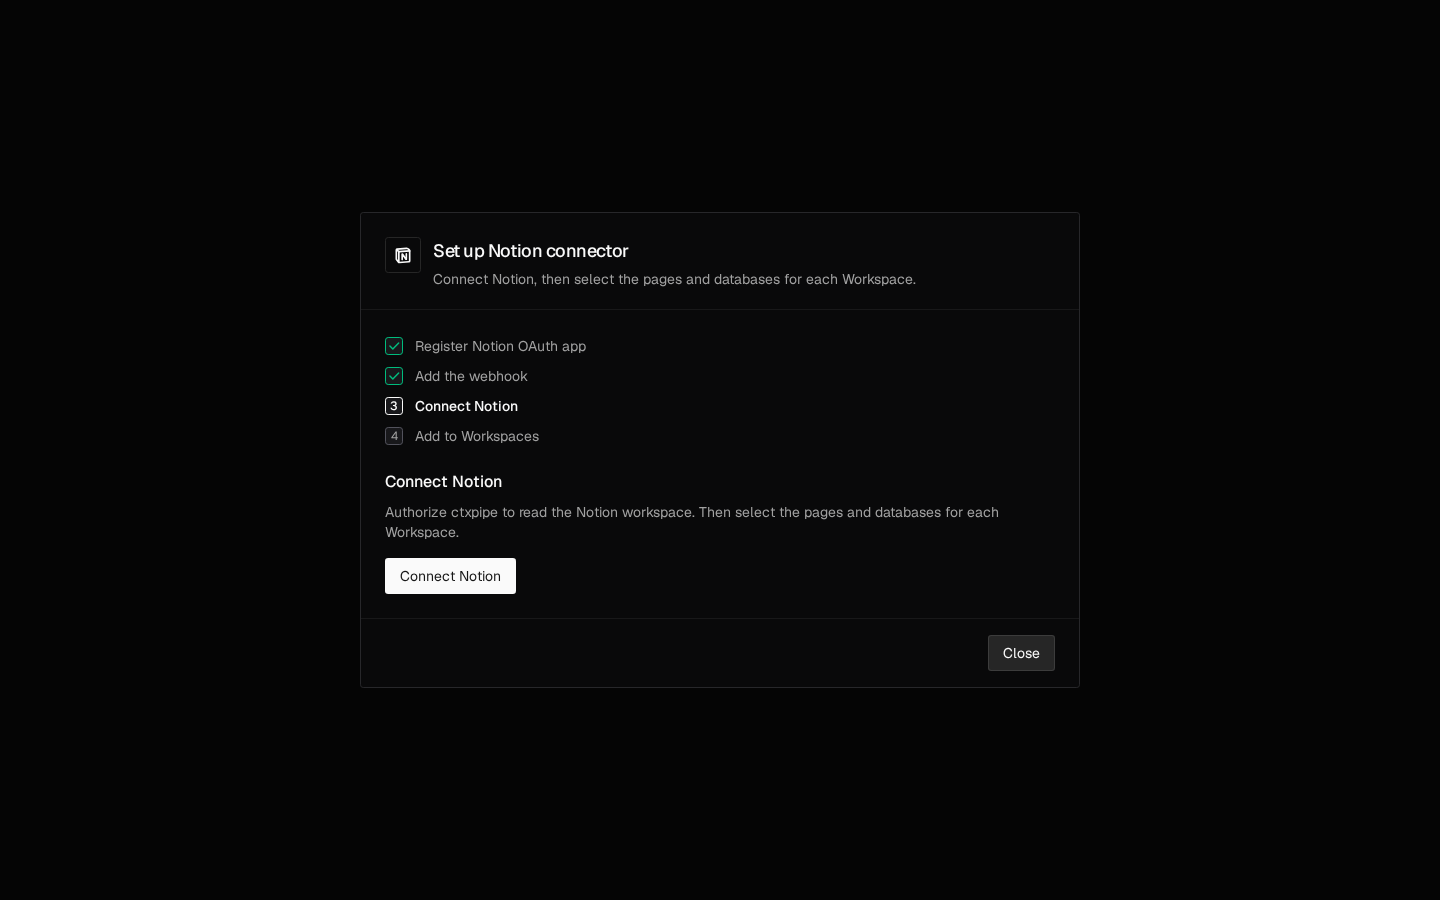
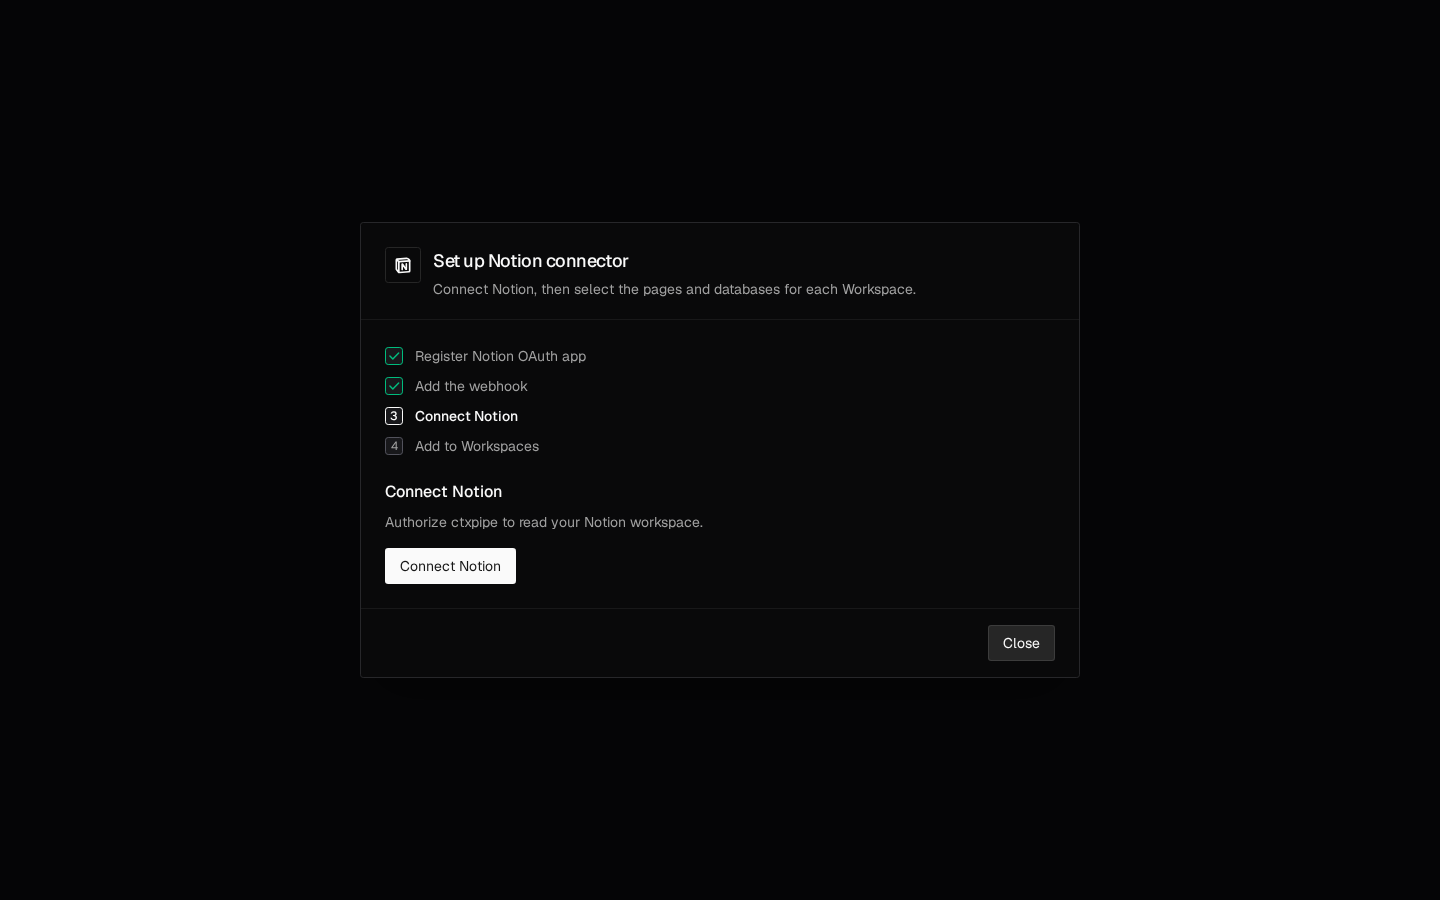
Connector dialogs: clear notices, plausible stories, exact purposes (part of CTX-1356)
- The replaced-setup notice has a title and says "Close that pull
  request on GitHub". "Close it" read as the Close button of the dialog.
- The Notion connect step no longer repeats the dialog description.
- GitHubPrerequisiteStep has one caller, the Slack setup: the Confluence,
  Notion and Linear stories are deleted with their baselines.
- The dialog stories get purposes that name the state and the user step.

diff --git a/apps/ui/src/features/connectors/components/GitHubPrerequisiteStep.stories.tsx b/apps/ui/src/features/connectors/components/GitHubPrerequisiteStep.stories.tsx
@@ -32,66 +32,12 @@ export const Slack: Story = {
   parameters: {
     review: {
       purpose:
-        "Setup step that asks the user to connect GitHub before a source connector: the user sets up Slack.",
+        "Step of the Slack setup dialog that asks the admin to connect GitHub first, because ctxpipe writes the saved threads to a Workspace repository on GitHub.",
     },
   },
   args: {
     orgSlug,
     sourceName: "Slack",
-  },
-  render: (args) => (
-    <div className="w-full max-w-xl p-2">
-      <GitHubPrerequisiteStep {...args} />
-    </div>
-  ),
-}
-
-export const Notion: Story = {
-  parameters: {
-    review: {
-      purpose:
-        "Setup step that asks the user to connect GitHub before a source connector: the user sets up Notion.",
-    },
-  },
-  args: {
-    orgSlug,
-    sourceName: "Notion",
-  },
-  render: (args) => (
-    <div className="w-full max-w-xl p-2">
-      <GitHubPrerequisiteStep {...args} />
-    </div>
-  ),
-}
-
-export const Confluence: Story = {
-  parameters: {
-    review: {
-      purpose:
-        "Setup step that asks the user to connect GitHub before a source connector: the user sets up Confluence.",
-    },
-  },
-  args: {
-    orgSlug,
-    sourceName: "Confluence",
-  },
-  render: (args) => (
-    <div className="w-full max-w-xl p-2">
-      <GitHubPrerequisiteStep {...args} />
-    </div>
-  ),
-}
-
-export const Linear: Story = {
-  parameters: {
-    review: {
-      purpose:
-        "Setup step that asks the user to connect GitHub before a source connector: the user sets up Linear.",
-    },
-  },
-  args: {
-    orgSlug,
-    sourceName: "Linear",
   },
   render: (args) => (
     <div className="w-full max-w-xl p-2">

diff --git a/apps/ui/src/features/workspace-sources/AddToWorkspacesStep.tsx b/apps/ui/src/features/workspace-sources/AddToWorkspacesStep.tsx
@@ -63,13 +63,13 @@ export function AddToWorkspacesStep({
         </p>
       </div>
       {replacedConfigPullUrl ? (
-        <InlineAlert variant="warning">
-          This setup was replaced. ctxpipe no longer uses the{" "}
+        <InlineAlert variant="warning" title="This setup was replaced">
+          ctxpipe no longer uses the{" "}
           <ExternalLink href={replacedConfigPullUrl}>
             configuration pull request
           </ExternalLink>{" "}
-          of the earlier setup. Close it, and add {items} to a Workspace here
-          instead.
+          of the earlier setup. Close that pull request on GitHub, then add{" "}
+          {items} to a Workspace below.
         </InlineAlert>
       ) : null}
       {adding.loadFailed ? (

diff --git a/apps/ui/src/features/connectors/components/linear-setup/LinearSetupWizard.stories.tsx b/apps/ui/src/features/connectors/components/linear-setup/LinearSetupWizard.stories.tsx
@@ -459,7 +459,7 @@ export const ManageAgainShowsTheNewScope: Story = {
   parameters: {
     review: {
       purpose:
-        "Linear setup wizard opened from Manage a second time: it shows the teams after a merge, not the teams of the first open.",
+        "Linear setup wizard, opened a second time from Manage after the saved scope changed to Operations: Add to Workspaces reads the new scope, not the scope of the first open.",
     },
     msw: {
       handlers: {

diff --git a/apps/ui/src/features/connectors/components/BuildkiteSetupDialog.stories.tsx b/apps/ui/src/features/connectors/components/BuildkiteSetupDialog.stories.tsx
@@ -138,7 +138,7 @@ export const TokenRefused: Story = {
   parameters: {
     review: {
       purpose:
-        "Buildkite setup dialog, which connects a Buildkite org to ctxpipe: the connect step shows an error because the token lacks a scope.",
+        "Buildkite setup dialog at the Connect Buildkite step: the admin pressed Connect Buildkite, and Buildkite refused the token because it lacks the read_builds scope.",
     },
     msw: {
       handlers: {

diff --git a/apps/ui/src/features/connectors/components/PlainSetupDialog.stories.tsx b/apps/ui/src/features/connectors/components/PlainSetupDialog.stories.tsx
@@ -250,7 +250,7 @@ export const ReconnectForTheWebhook: Story = {
   parameters: {
     review: {
       purpose:
-        "Plain setup dialog opened to reconnect a working connection: the dialog asks for the key again so that ctxpipe can add the webhook.",
+        "Plain setup dialog opened from Reconnect on a connected card with no webhook: a warning says live updates are off and asks for the API key again.",
     },
     msw: {
       handlers: {

diff --git a/apps/ui/src/features/connectors/components/PagerdutySetupDialog.stories.tsx b/apps/ui/src/features/connectors/components/PagerdutySetupDialog.stories.tsx
@@ -285,7 +285,7 @@ export const ReplacedSetup: Story = {
   parameters: {
     review: {
       purpose:
-        "PagerDuty setup dialog for a connected account: a newer setup replaced this one and a config pull request waits for a merge.",
+        "PagerDuty setup dialog at Add to Workspaces for a connection from an earlier setup: a warning says ctxpipe no longer uses its open configuration pull request.",
     },
     msw: {
       handlers: {

diff --git a/apps/ui/src/features/connectors/components/NotionSetupDialog.stories.tsx b/apps/ui/src/features/connectors/components/NotionSetupDialog.stories.tsx
@@ -266,7 +266,7 @@ export const ConnectNotionGlobalEnv: Story = {
   parameters: {
     review: {
       purpose:
-        "Notion setup dialog on the hosted product, where ctxpipe supplies the OAuth app: the dialog starts at the Connect Notion step.",
+        "Notion setup dialog on the hosted product, where ctxpipe supplies the OAuth app: the first step asks the admin to authorize ctxpipe in Notion.",
     },
     msw: {
       handlers: {

diff --git a/apps/ui/src/features/connectors/components/SlackSetupDialog.stories.tsx b/apps/ui/src/features/connectors/components/SlackSetupDialog.stories.tsx
@@ -233,7 +233,7 @@ export const CaptureWorkspace: Story = {
   parameters: {
     review: {
       purpose:
-        "Slack setup dialog at the Workspaces step: the step explains how an @mention captures a thread and offers no repository picker.",
+        "Slack setup dialog at its last step, Add to Workspaces: a box explains how an @mention of the bot saves a thread, and no Workspace is selected yet.",
     },
     msw: {
       handlers: {

diff --git a/apps/ui/src/features/connectors/components/NotionSetupDialog.tsx b/apps/ui/src/features/connectors/components/NotionSetupDialog.tsx
@@ -124,8 +124,7 @@ export function NotionSetupDialog({
               Connect Notion
             </h3>
             <p className="mt-2 text-sm text-muted-foreground">
-              Authorize ctxpipe to read the Notion workspace. Then select the
-              pages and databases for each Workspace.
+              Authorize ctxpipe to read your Notion workspace.
             </p>
           </div>
           <Button

diff --git a/.changeset/connector-stories-sample-b.md b/.changeset/connector-stories-sample-b.md
@@ -1,0 +1,4 @@
+---
+---
+
+Connector UI: review fixes from the story sample of CTX-1356 (internal UI change, no package release).
